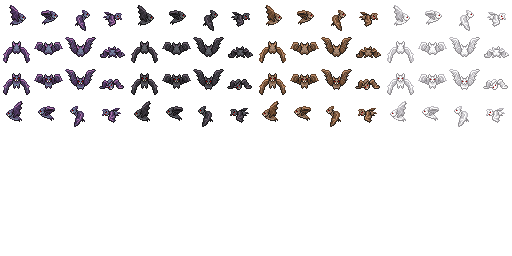
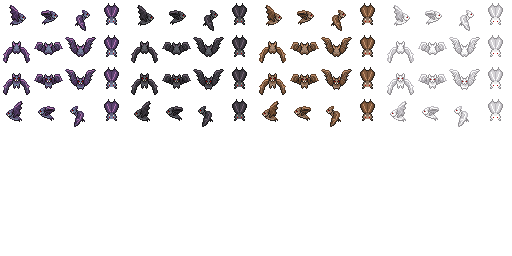
Pipistrello: a riposo si appende a testa in giù (v3.23.0)
Posa disegnata da codice (tools/pipistrello_appeso.py) con i colori dello sprite,
nei 4 colori. Quando l'eroe si ferma il pipistrello resta in alto, appeso.

Claude-Session: https://claude.ai/code/session_0172XSwzSD3NL9rTAFj1MXmr

diff --git a/js/sprite.js b/js/sprite.js
@@ -141,9 +141,9 @@
     gatto: { nome: "Gatto", file: "assets/pets/gatto.png", colori: ["bianco", "dorato", "rosso", "nero"] },
     cane: { nome: "Cane", file: "assets/pets/cane.png", colori: ["bianco", "marrone", "dorato", "nero"] },
     scimmia: { nome: "Scimmia", file: "assets/pets/scimmia.png", colori: ["marrone", "dorato", "grigio", "nero"] },
-    /* Volanti: colonne 0–2 = battito d'ali, 3 = posato a terra. Volano accanto alla spalla dell'eroe e atterrano quando si ferma. */
+    /* Volanti: colonne 0–2 = battito d'ali, 3 = posato a terra. Volano accanto alla spalla dell'eroe; quando si ferma il corvo si posa a terra, il pipistrello si appende a testa in giù. */
     corvo: { nome: "Corvo", file: "assets/pets/corvo.png", colori: ["nero", "blu", "grigio", "bianco"], vola: true },
-    pipistrello: { nome: "Pipistrello", file: "assets/pets/pipistrello.png", colori: ["viola", "nero", "marrone", "argento"], vola: true }
+    pipistrello: { nome: "Pipistrello", file: "assets/pets/pipistrello.png", colori: ["viola", "nero", "marrone", "argento"], vola: true, appeso: true }
   };
   const fogli = new Map();
   const foglio = f => { if (!fogli.has(f)) fogli.set(f, new Promise((ok, no) => { const i = new Image(); i.onload = () => ok(i); i.onerror = () => no(new Error("manca " + f)); i.src = f; })); return fogli.get(f); };
@@ -236,6 +236,7 @@
           if (o.A && o.A.vola) {
             const meta = inMoto || moto ? 1 : 0; st.vol = (st.vol || 0) + (meta - (st.vol || 0)) * Math.min(1, dt * 3);
             su = st.vol * (30 + Math.sin(t / 260) * 2.5) * a.scala;
+            if (o.A.appeso) su += (1 - st.vol) * 38 * a.scala; /* a riposo il pipistrello resta in alto, appeso a testa in giù */
           }
           o.pcv.style.left = pc(st.px - 16 * a.scala, w); o.pcv.style.top = pc(yE + 4 - PIEDI_PET * a.scala - su, h); o.pcv.style.zIndex = Math.round(yE) + (su > 1 ? 3 : 1);
         }

diff --git a/tools/volanti.py b/tools/volanti.py
@@ -1,6 +1,6 @@
 """Fogli di corvo e pipistrello nel formato degli animali dell'app.
 512x256, celle 32x32: 4 colori x 4 colonne; righe 0 destra, 1 su, 2 giù, 3 sinistra.
-Colonne 0-2 = volo (ali giù, a metà, su), colonna 3 = posato a terra.
+Colonne 0-2 = volo (ali giù, a metà, su), colonna 3 = a riposo (corvo posato a terra, pipistrello appeso a testa in giù).
 Sorgenti: [LPC] Birds (bluecarrot16) e [LPC] Monsters, pipistrello di bagzie."""
 from PIL import Image
 import colorsys
@@ -54,7 +54,10 @@ def cp(r, c, terra=False):
     x0, y0 = c * 64 + 16, r * 64 + (21 if terra else 12)
     return P.crop((x0, y0, x0 + 32, y0 + 32))
 ord_bat = {0: 3, 1: 0, 2: 2, 3: 1}
-pip = [[cp(ord_bat[r], 1), cp(ord_bat[r], 2), cp(ord_bat[r], 3), cp(ord_bat[r], 0, True)] for r in range(4)]
+import importlib.util, os
+_sp = importlib.util.spec_from_file_location("appeso", os.path.join(os.path.dirname(__file__), "pipistrello_appeso.py")); _m = importlib.util.module_from_spec(_sp); _sp.loader.exec_module(_m)
+appeso = _m.posa()  # colonna 3: a riposo, appeso a testa in giù (disegnato da codice)
+pip = [[cp(ord_bat[r], 1), cp(ord_bat[r], 2), cp(ord_bat[r], 3), appeso] for r in range(4)]
 occhi = lambda r, g, b: r > 150 and g < 90 and b < 90
 foglio(pip, [
     lambda i: i,                                                                   # viola

diff --git a/tools/pipistrello_appeso.py b/tools/pipistrello_appeso.py
@@ -1,0 +1,38 @@
+"""Posa del pipistrello appeso a testa in giù (32x32), disegnata da codice con i colori dello sprite di bagzie.
+Ali chiuse attorno al corpo, artigli in alto, testa in basso con le orecchie che puntano giù."""
+from PIL import Image
+PAL = {"o": (29, 24, 30), "d": (67, 47, 83), "m": (92, 67, 111), "p": (181, 114, 177), "b": (95, 95, 123),
+       "l": (119, 132, 162), "e": (174, 0, 0), "f": (255, 249, 214)}
+DIS = [
+    "....o.....o....",
+    "....o.....o....",
+    "...odo...odo...",
+    "..odmdoooddmo..",
+    ".odmmmdmdmmmdo.",
+    "odmpmmmdmmmpmdo",
+    "odmpmmmdmmmpmdo",
+    "odmmpmmdmmpmmdo",
+    "odmmpmmdmmpmmdo",
+    ".odmpmmdmmpmdo.",
+    ".odmmpmdmpmmdo.",
+    "..odmpmdmpmdo..",
+    "..odmmpdpmmdo..",
+    "...oddmdmddo...",
+    "....oobbboo....",
+    "...obbbbbbbo...",
+    "...obfbbbfbo...",
+    "..oblllllllbo..",
+    "..oblelllelbo..",
+    "...oblllllbo...",
+    "..obo.....obo..",
+    "..oo.......oo..",
+]
+def posa():
+    im = Image.new("RGBA", (32, 32))
+    w = max(len(r) for r in DIS); x0 = (32 - w) // 2; y0 = 3
+    for y, r in enumerate(DIS):
+        for x, ch in enumerate(r):
+            if ch != ".": im.putpixel((x0 + x, y0 + y), (*PAL[ch], 255))
+    return im
+if __name__ == "__main__":
+    posa().resize((256, 256), Image.NEAREST).save("pipistrello_appeso.png")
